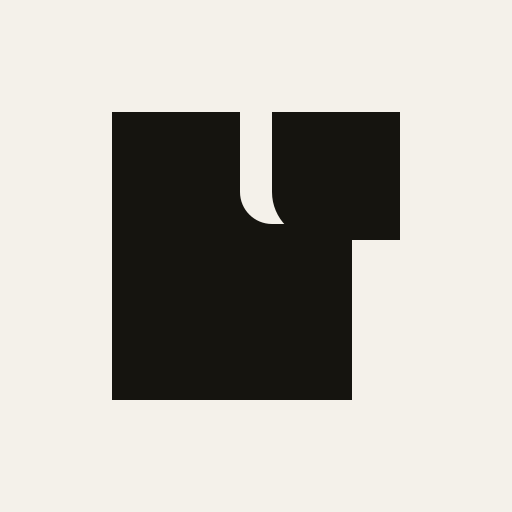
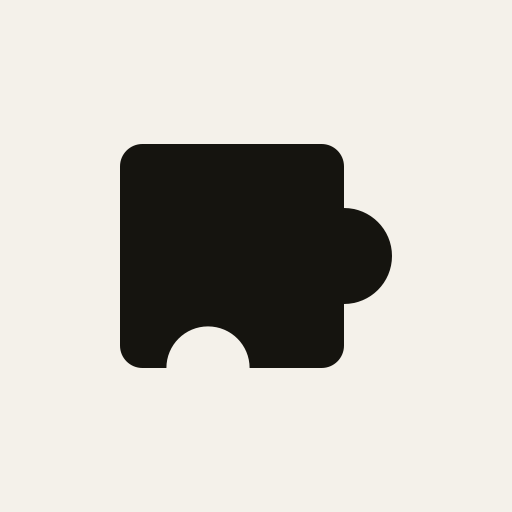
feat(frontend-shell): replace brand mark with single jigsaw-piece glyph

Changed region(s): [[0.2188, 0.2188, 0.6875, 0.7812], [0.5312, 0.2188, 0.7812, 0.5938], [0.4688, 0.2812, 0.5625, 0.4375]]

diff --git a/scripts/generate-icons.ts b/scripts/generate-icons.ts
@@ -24,7 +24,8 @@ const INK = "#15140f";
 
 // 22x22 glyph from BrandMark.vue, centered in a 64x64 tile (translate/scale
 // keep the ink within ~22% padding so it stays bold at 16px).
-const MARK = "M2 2h8v5a2 2 0 0 0 2 2h5v11H2V2zm10 0h8v8h-5a3 3 0 0 1-3-3V2z";
+const MARK =
+  "M3.9,4 L15.1,4 A1.4,1.4 0 0 1 16.5,5.4 L16.5,8 A3,3 0 0 1 16.5,14 L16.5,16.6 A1.4,1.4 0 0 1 15.1,18 L10.6,18 A2.6,2.6 0 0 0 5.4,18 L3.9,18 A1.4,1.4 0 0 1 2.5,16.6 L2.5,5.4 A1.4,1.4 0 0 1 3.9,4 Z";
 const MARK_GROUP = `<g transform="translate(10 10) scale(2)"><path d="${MARK}" fill="${INK}"/></g>`;
 
 const roundedSvg = () =>

diff --git a/packages/frontend/src/components/BrandMark.vue b/packages/frontend/src/components/BrandMark.vue
@@ -11,6 +11,9 @@ defineProps<{ size?: number }>();
     fill="none"
     aria-hidden="true"
   >
-    <path d="M2 2h8v5a2 2 0 0 0 2 2h5v11H2V2zm10 0h8v8h-5a3 3 0 0 1-3-3V2z" fill="#15140f" />
+    <path
+      d="M3.9,4 L15.1,4 A1.4,1.4 0 0 1 16.5,5.4 L16.5,8 A3,3 0 0 1 16.5,14 L16.5,16.6 A1.4,1.4 0 0 1 15.1,18 L10.6,18 A2.6,2.6 0 0 0 5.4,18 L3.9,18 A1.4,1.4 0 0 1 2.5,16.6 L2.5,5.4 A1.4,1.4 0 0 1 3.9,4 Z"
+      fill="#15140f"
+    />
   </svg>
 </template>
